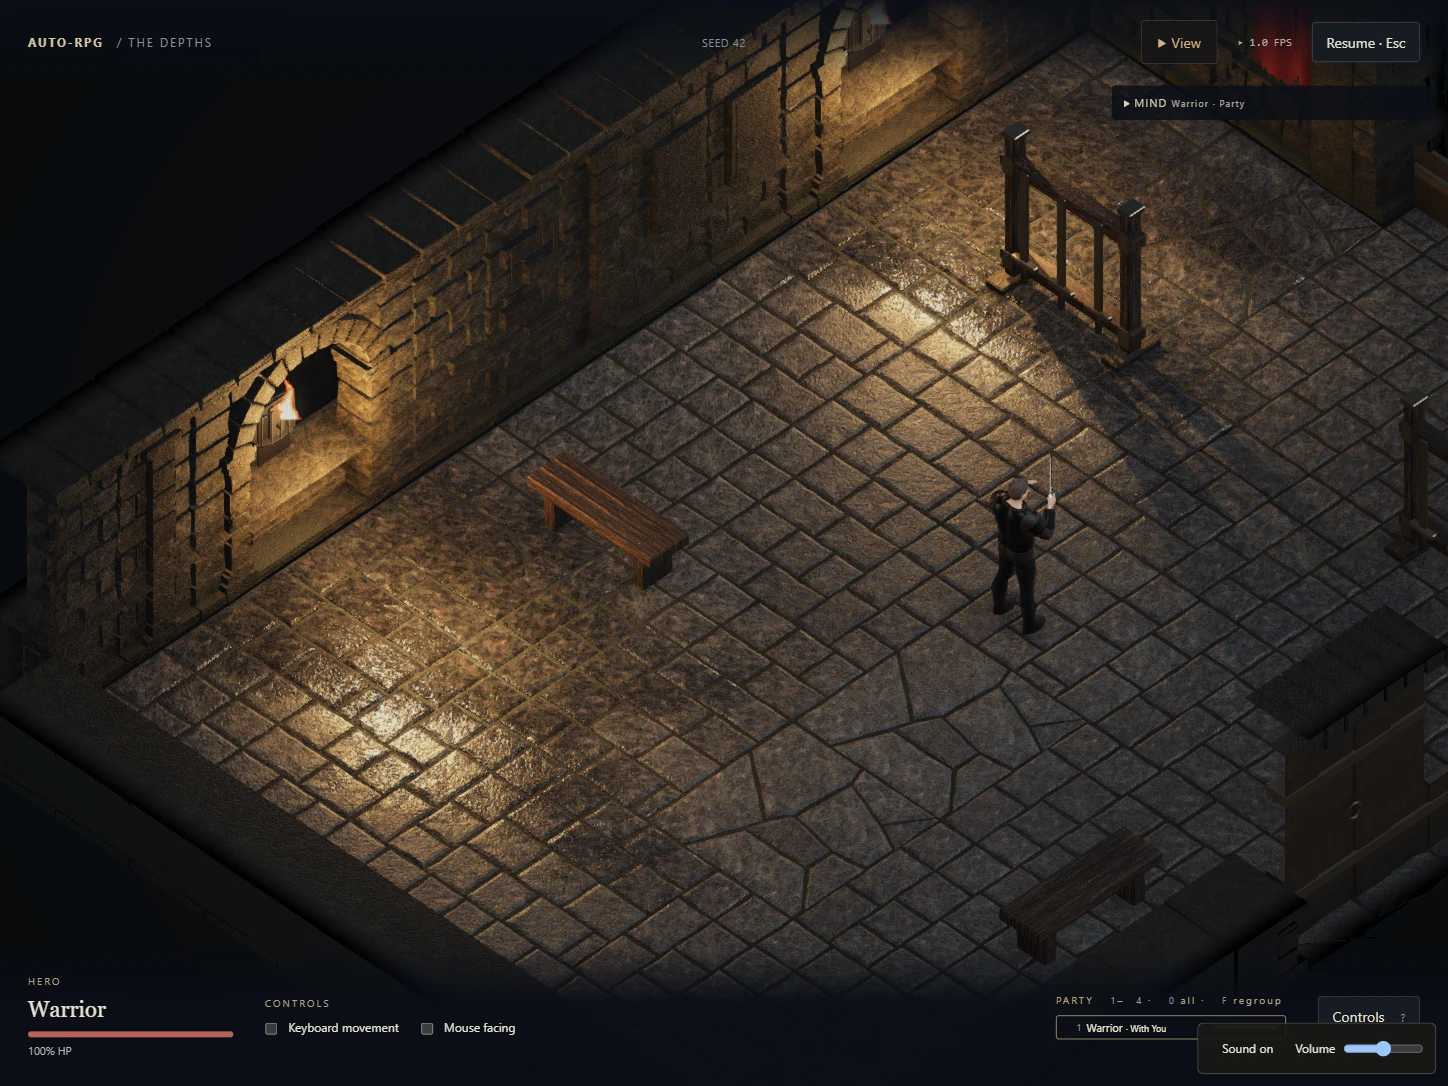
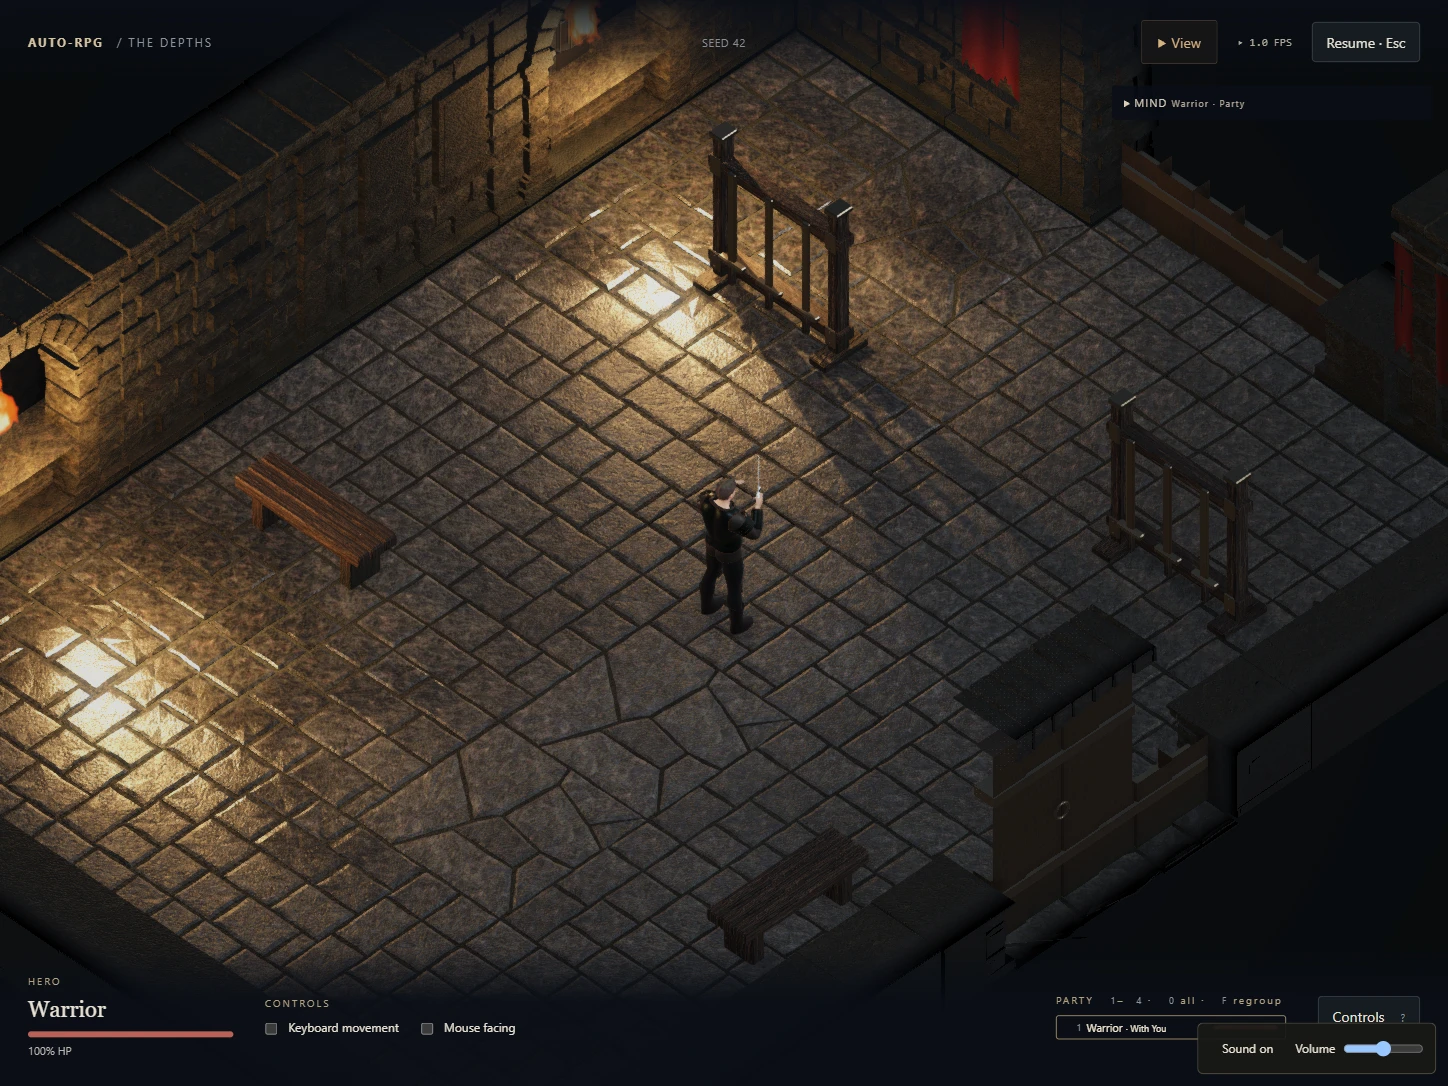
Give Dungeon torches volume and stabilize wet highlights and zoom
Ray-march rising 3D flame density in world-aligned bounds with per-torch phase and existing fog/cutaway fades. Filter unresolved stone highlights with specular antialiasing and smooth fine normal detail under the water film. Centre Random Crypt framing on the hero at every zoom.

Validated the production build and TypeScript check, the full test gate (132 passed, 9 skipped), High and Reduced browser rendering, close-up flame animation, frozen-time camera shifts, and maximum zoom centred on the hero. Updated the real game capture and look documentation.

diff --git a/src/dungeon/fire.ts b/src/dungeon/fire.ts
@@ -1,30 +1,61 @@
 import { Color3 } from "@babylonjs/core/Maths/math.color.js";
 import { Effect } from "@babylonjs/core/Materials/effect.js";
 import { ShaderMaterial } from "@babylonjs/core/Materials/shaderMaterial.js";
+import { Vector3 } from "@babylonjs/core/Maths/math.vector.js";
 import type { AbstractMesh } from "@babylonjs/core/Meshes/abstractMesh.js";
 import type { Scene } from "@babylonjs/core/scene.js";
-import "../render/fire.ts";
 import { cutAway } from "./fog.ts";
 import { CAMERA_AZIMUTH, cameraToward } from "./camera.ts";
 import type { Point } from "./map.ts";
 
-/**
- * The flame (`flame` in `src/render/fire.ts`) has a white-hot core and times a `fade`, so a torch inside the cut-away ghosts with the wall
- * and sconce behind it rather than floating in front of a hole. Derived from that shader's text rather than copied,
- * and refused at load if the text has moved, so `flame` stays the one source of the flame.
- *
- * The fade scales the colour as well as the alpha. The flame's core is HDR, and blending adds
- * colour times alpha: a flame faded by its alpha alone still tone-maps to a bright core and only loses its bloom, so
- * it reads as dimmer rather than see-through. Scaling both fades it as the wall beside it fades.
- */
-const HEAD = "varying vec2 vUV; uniform float time;", TAIL = "gl_FragColor=vec4(c,a*.82);}";
-const flame = Effect.ShadersStore.flameFragmentShader;
-if (!flame.includes(HEAD) || !flame.endsWith(TAIL)) throw new Error("dungeon fire: flame has changed; derive the fade again");
-Effect.ShadersStore.dungeonFireFragmentShader = flame.replace(HEAD, `${HEAD} uniform float fade; uniform vec3 tint;`)
-  .slice(0, -TAIL.length) + "vec3 fire=mix(vec3(1.8,.42,.035)*tint,vec3(3.5,2.8,1.6),smoothstep(.08,.65,field));gl_FragColor=vec4(fire*fade,a*.82*fade);}";
+/** A small world-aligned volume above the basket, m (`docs/reference/look.md#crypt-light`). */
+export const FLAME_VOLUME = Object.freeze({ width: .48, height: .82, depth: .48 });
 
-/** Which shaders a dungeon flame draws with: the flame's vertex, the fading fragment. */
-const DUNGEON_FIRE = Object.freeze({ vertex: "flame", fragment: "dungeonFire" });
+Effect.ShadersStore.dungeonFireVertexShader = `precision highp float;
+attribute vec3 position; uniform mat4 worldViewProjection; varying vec3 flamePosition;
+void main(){flamePosition=position;gl_Position=worldViewProjection*vec4(position,1.0);}`;
+/** Integrate emission through a 3D density field. Noise advects upward in the torch's space, never in screen space. */
+Effect.ShadersStore.dungeonFireFragmentShader = `precision highp float;
+varying vec3 flamePosition;
+uniform vec3 rayDirection, tint; uniform float time, phase, fade;
+float fireHash(vec3 p){p=fract(p*.1031);p+=dot(p,p.yzx+33.33);return fract((p.x+p.y)*p.z);}
+float fireNoise(vec3 p){
+  vec3 i=floor(p),f=fract(p);f=f*f*(3.0-2.0*f);
+  return mix(mix(mix(fireHash(i),fireHash(i+vec3(1,0,0)),f.x),
+    mix(fireHash(i+vec3(0,1,0)),fireHash(i+vec3(1,1,0)),f.x),f.y),
+    mix(mix(fireHash(i+vec3(0,0,1)),fireHash(i+vec3(1,0,1)),f.x),
+    mix(fireHash(i+vec3(0,1,1)),fireHash(i+vec3(1,1,1)),f.x),f.y),f.z);
+}
+void main(){
+  vec3 ray=normalize(rayDirection);
+  vec3 bounds=vec3(${FLAME_VOLUME.width/2},${FLAME_VOLUME.height/2},${FLAME_VOLUME.depth/2});
+  // The rasterized front face is the ray's entry. The slab intersection gives its exit.
+  vec3 safeRay=(step(vec3(0),ray)*2.0-1.0)*max(abs(ray),vec3(.00001));
+  vec3 farPlane=max((-bounds-flamePosition)/safeRay,(bounds-flamePosition)/safeRay);
+  float stepLength=max(0.0,min(farPlane.x,min(farPlane.y,farPlane.z)))/32.0;
+  vec3 radiance=vec3(0);float opacity=0.0;
+  float clock=time+phase;
+  for(int i=0;i<32;i++){
+    vec3 p=flamePosition+ray*(float(i)+.5)*stepLength;
+    float height=(p.y+bounds.y)/${FLAME_VOLUME.height};
+    vec2 bend=vec2(sin(height*7.0-clock*2.1),sin(height*5.0+clock*1.7))*.045*height;
+    vec3 flow=vec3((p.xz-bend)*11.0,height*5.5-clock*2.2);
+    float turbulence=fireNoise(flow)*.7+fireNoise(flow*2.1+11.7)*.3;
+    float radius=.18*pow(max(0.0,1.0-height),.75);
+    float field=radius*(.45+turbulence)-length(p.xz-bend)+(turbulence-.5)*.12;
+    float density=smoothstep(-.015,.055,field)*smoothstep(0.0,.06,height)*(1.0-smoothstep(.78,1.0,height));
+    float hot=smoothstep(.055,.15,field)*(1.0-smoothstep(.12,.55,height));
+    vec3 emission=mix(vec3(2.0,.45,.02)*tint,vec3(4.0,3.0,1.5),hot);
+    float absorb=1.0-exp(-density*stepLength*17.0);
+    radiance+=(1.0-opacity)*absorb*emission;
+    opacity+=(1.0-opacity)*absorb;
+  }
+  if(opacity<.002)discard;
+  // Alpha blending expects straight colour; fade also dims HDR emission at the cutaway.
+  gl_FragColor=vec4(radiance/max(opacity,.001)*fade,opacity*fade);
+}`;
+
+const DUNGEON_FIRE = Object.freeze({ vertex: "dungeonFire", fragment: "dungeonFire" });
 
 /**
  * The one material every torch's flame draws with, and each flame's own fade. The fade is written as a flame binds:
@@ -34,12 +65,17 @@ const DUNGEON_FIRE = Object.freeze({ vertex: "flame", fragment: "dungeonFire" })
  */
 export function flameMaterial(scene: Scene) {
   const material = new ShaderMaterial("dungeon.fire", scene, DUNGEON_FIRE, {
-    attributes: ["position", "uv"], uniforms: ["worldViewProjection", "time", "fade", "tint"], needAlphaBlending: true,
+    attributes: ["position"], uniforms: ["worldViewProjection", "rayDirection", "time", "phase", "fade", "tint"], needAlphaBlending: true,
   });
-  material.backFaceCulling = false; material.disableDepthWrite = true;
+  material.disableDepthWrite = true;
+  material.setFloat("time",0);
   const fades = new Map<AbstractMesh, number>();
   const tints = new Map<AbstractMesh, Color3>(), white=Color3.White();
+  const direction=new Vector3(),forward=Vector3.Forward();
   const binding = material.onBindObservable.add(mesh => {
+    scene.activeCamera?.getDirectionToRef(forward,direction);
+    material.getEffect()?.setVector3("rayDirection",direction);
+    material.getEffect()?.setFloat("phase",mesh.position.x*1.37+mesh.position.z*2.19);
     material.getEffect()?.setFloat("fade", fades.get(mesh) ?? 1);
     material.getEffect()?.setColor3("tint", tints.get(mesh) ?? white);
   });

diff --git a/src/dungeon/lighting.ts b/src/dungeon/lighting.ts
@@ -5,7 +5,6 @@ import { Matrix, Vector3 } from "@babylonjs/core/Maths/math.vector.js";
 import { Color3, Color4 } from "@babylonjs/core/Maths/math.color.js";
 import { HDRCubeTexture } from "@babylonjs/core/Materials/Textures/hdrCubeTexture.js";
 import { MeshBuilder } from "@babylonjs/core/Meshes/meshBuilder.js";
-import { Mesh } from "@babylonjs/core/Meshes/mesh.js";
 import { SSAO2RenderingPipeline } from "@babylonjs/core/PostProcesses/RenderPipeline/Pipelines/ssao2RenderingPipeline.js";
 import type { DefaultRenderingPipeline } from "@babylonjs/core/PostProcesses/RenderPipeline/Pipelines/defaultRenderingPipeline.js";
 import type { Camera } from "@babylonjs/core/Cameras/camera.js";
@@ -18,7 +17,7 @@ import { isTactical } from "../render/scene-profile.ts";
 import { postPipeline } from "../render/post.ts";
 import { publicAssetUrl } from "../asset-url.ts";
 import { CAMERA_AZIMUTH, cameraDistance } from "./camera.ts";
-import { flameFade, flameMaterial } from "./fire.ts";
+import { FLAME_VOLUME, flameFade, flameMaterial } from "./fire.ts";
 import { orthographicLightProxy } from "./light-proxy.ts";
 import { cellKey, type DungeonMap, type Point } from "./map.ts";
 import type { TorchPlacement } from "./dressing.ts";
@@ -37,7 +36,7 @@ const DUNGEON_LOOK = Object.freeze({
   lantern: Object.freeze({ color: "#ffcf8f", intensity: 9, height: 2.6, behind: 0.8 }),
   /** A torch, and how far its flicker swings the intensity either way. */
   torch: Object.freeze({ color: "#ff8a3d", intensity: 6, flicker: 0.6 }),
-  /** The flame quad's centre stands above its anchor so the iron basket shows beneath the fire. */
+  /** The flame volume's centre stands above its anchor so the iron basket shows beneath the fire. */
   flameLift: .20,
   /** Contact shadow at the foot of walls and bodies, sized for a camera that stands 30 m off. */
   ssao: Object.freeze({ ratio: 0.5, radius: 0.35, totalStrength: 1.1, samples: 8 }),
@@ -114,10 +113,10 @@ export function lightDungeon(scene: Scene, camera: Camera, map: DungeonMap, torc
   const flameLook = flameMaterial(scene), fire = flameLook.material;
   const torchColor = Color3.FromHexString(DUNGEON_LOOK.torch.color);
   const flames = torches.map((torch, i) => {
-    const flame = MeshBuilder.CreatePlane(`torch.flame.${i}`, { width: 0.42, height: 0.66 }, scene);
+    const flame = MeshBuilder.CreateBox(`torch.flame.${i}`, { ...FLAME_VOLUME }, scene);
     flame.position.set(torch.flame.x, torch.flame.y+DUNGEON_LOOK.flameLift, torch.flame.z);
     if(torch.color)flameLook.setTint(flame,Color3.FromHexString(torch.color));
-    flame.material = fire; flame.billboardMode = Mesh.BILLBOARDMODE_Y; flame.isPickable = false; flame.isVisible = false;
+    flame.material = fire; flame.isPickable = false; flame.isVisible = false;
     return { flame, floor: cellKey(map, { x: torch.cell.x + torch.facing.x, z: torch.cell.z + torch.facing.z }) };
   });
   const lights = torches.map((torch, i) => {

diff --git a/src/dungeon/reference-look.ts b/src/dungeon/reference-look.ts
@@ -70,8 +70,11 @@ class CryptDamp extends MaterialPluginBase {
           ${centres.map(p=>`wetDistance = min(wetDistance,length((p-vec2(${p.x.toFixed(4)},${p.z.toFixed(4)}))/vec2(3.8,2.7)));`).join("\n")}
           return 1.0-smoothstep(0.30,1.05,wetDistance+edge);
         }`,
-      CUSTOM_FRAGMENT_BEFORE_LIGHTS: "surfaceAlbedo *= mix(1.0, 0.64, cryptDamp(vPositionW.xz));",
-      CUSTOM_FRAGMENT_UPDATE_METALLICROUGHNESS: "metallicRoughness.g = mix(metallicRoughness.g, 0.16, cryptDamp(vPositionW.xz));",
+      // Water fills the finest pores. Preserve the chipped mesh normal while smoothing the normal map under the film.
+      CUSTOM_FRAGMENT_BEFORE_LIGHTS: `float cryptWet=cryptDamp(vPositionW.xz);
+        surfaceAlbedo *= mix(1.0,0.64,cryptWet);
+        normalW=normalize(mix(normalW,geometricNormalW,cryptWet*.7));`,
+      CUSTOM_FRAGMENT_UPDATE_METALLICROUGHNESS: "metallicRoughness.g = mix(metallicRoughness.g, 0.24, cryptDamp(vPositionW.xz));",
     } : null;
   }
 }
@@ -152,6 +155,8 @@ export async function dressReference(scene: Scene, level: ReturnType<typeof buil
   const textured = (name: string, colour: string, family = "wall") => {
     const channels = sets[plan ? families.indexOf(families.includes(family) ? family : "floor") : 0]!;
     const material = flatStone(scene, name, colour);
+    // Broaden highlights when normal detail is smaller than a pixel instead of letting it sparkle as the camera moves.
+    material.enableSpecularAntiAliasing = true;
     material.useRoughnessFromMetallicTextureAlpha = false;
     material.useRoughnessFromMetallicTextureGreen = true;
     material.useMetallnessFromMetallicTextureBlue = true;

diff --git a/src/dungeon/main.ts b/src/dungeon/main.ts
@@ -328,10 +328,7 @@ export async function bootDungeon(context: ScreenContext): Promise<void> {
     const target = page.reference && !page.cryptPlan
       ? { x: centre.x + (hero.x - centre.x) * follow, z: centre.z + (hero.z - centre.z) * follow }
       : hero;
-    // Leave the hall and its torchlit wall in view to the hero's left, as in the guard-hall reference.
-    const aside=page.cryptPlan ? 2.8 : 0;
-    const framed={x:target.x+toward.z*aside,z:target.z-toward.x*aside};
-    frameDungeon(camera, framed, zoom, engine.getRenderWidth() / engine.getRenderHeight(), pitch, azimuth);
+    frameDungeon(camera, target, zoom, engine.getRenderWidth() / engine.getRenderHeight(), pitch, azimuth);
     lighting.update(hero, zoom, pitch, toward);
     run.level.setHero(hero);
   }

diff --git a/docs/reference/look.md b/docs/reference/look.md
@@ -262,8 +262,8 @@ how large anything is drawn.
 ([the crypt's art](../art/crypt.md#the-rootbound-crypt)): 42 degrees up, at a bearing of 135
 degrees, zoom 6.5.
 
-Random Crypt opens at zoom 5.2, with the camera target 2.8 m to screen-left of the hero
-(`framing`, `src/dungeon/main.ts`), keeping the hall and its torchlit wall in view.
+Random Crypt opens at zoom 5.2 and centres the camera on the hero at every zoom
+(`framing`, `src/dungeon/main.ts`).
 
 ## Crypt light
 
@@ -294,6 +294,9 @@ facing -z, its flame at (12, 2.05, 13.35) and its light at (12, 2.05, 13).
 
 The torches burn on a time of their own, which only the page moves (`DungeonLighting.burn`), by at
 most 50 ms a frame; a paused run's flames stand still, as the forge's do, as the owner chose.
+`FLAME_VOLUME` (`src/dungeon/fire.ts`) bounds each flame in 0.48 by 0.82 by 0.48 m.
+The shader integrates 32 samples through a 3D density field with rising turbulence and a hot core.
+Each torch has its own phase; the volume stays aligned to the world as the camera moves.
 
 ## Crypt fog
 
@@ -341,8 +344,9 @@ cut, and a torch whose rock cell lies beyond one is hidden with its wall.
 
 `REFERENCE_DAMP`: the Rootbound Crypt's floor is wet about (6.1, 7), (11.6, 11.3) and (13.5, 8.2),
 m. The Random Crypt's is wet under the guard hall's torches and those of its damp chambers
-(`CRYPT_TORCH`), with irregular patches of half-extents 3.8 by 2.7 m, a wet roughness of 0.16
-and albedo multiplier 0.64 (`CryptDamp`).
+(`CRYPT_TORCH`), with irregular patches of half-extents 3.8 by 2.7 m, a wet roughness of 0.24
+and albedo multiplier 0.64 (`CryptDamp`). The water film suppresses 70% of normal-map relief,
+retaining the chipped geometry. Specular antialiasing broadens unresolved normal detail's highlights.
 
 A torch's shadow map is 2048 px a side at high quality and 1024 px at reduced (`shadowMapSize`;
 [the crypt's art](../art/crypt.md#random-crypt)).
@@ -390,7 +394,7 @@ bands at 0.55 m and 1.85 m up, 0.12 m high, 0.28 m deep and 2.9 m wide; and a ri
 
 `SCONCE`: nothing of it stands more than 0.08 m off the wall; its plate is 0.20 m by 0.44 m by
 0.02 m, centred 1.82 m up. Its iron basket is centred 1.84 m up, 0.50 m wide and 0.42 m high,
-with two oval rims, five bars and two plate rivets. The flame quad's centre stands 0.20 m above
+with two oval rims, five bars and two plate rivets. The flame volume's centre stands 0.20 m above
 its anchor (`DUNGEON_LOOK.flameLift`), exposing the cage beneath the fire. A recessed fitting
 moves down by the difference between its flame anchor and `DRESSING.torchHeight`.
 

diff --git a/docs/art/crypt.md b/docs/art/crypt.md
@@ -33,7 +33,7 @@ Everything is built at runtime from the level's cells; there is no model file.
   comparison.
 - **Dressing.** `src/dungeon/dressing.ts` places torches and floor clutter (`DRESSING`,
   `torchPlacements`); `src/dungeon/decals.ts` paints the decal atlas in code; `src/dungeon/fire.ts`
-  draws the flames.
+  draws animated 3D flame volumes.
 - **Light.** `lightDungeon` (`src/dungeon/lighting.ts`) builds the lights, SSAO and the post
   pipeline from `DUNGEON_LOOK`; many torch lights share a `ClusteredLightContainer`.
 - **Fog and cutaways.** `src/dungeon/fog-plugin.ts` and `src/dungeon/fog.ts` darken what the party

diff --git a/docs/roadmap.md b/docs/roadmap.md
@@ -96,7 +96,7 @@ The plans in flight, and what comes next across them. Each plan names its own de
 **To watch:**
 
 - Random Crypt's guard hall against the owner's torchlit wet-stone reference: fractured masonry,
-  chipped paving, detailed stone and timber materials, damp highlights and the composed camera
+  chipped paving, detailed stone and timber materials, damp highlights and the hero-centred camera
   (`?play=dungeon&scene=random-crypt&seed=42`, [art](art/crypt.md#random-crypt)).
 - The Duellist on both levels; accepted, it becomes the reference
   ([sword-and-buckler](reference/sword-and-buckler.md)).
